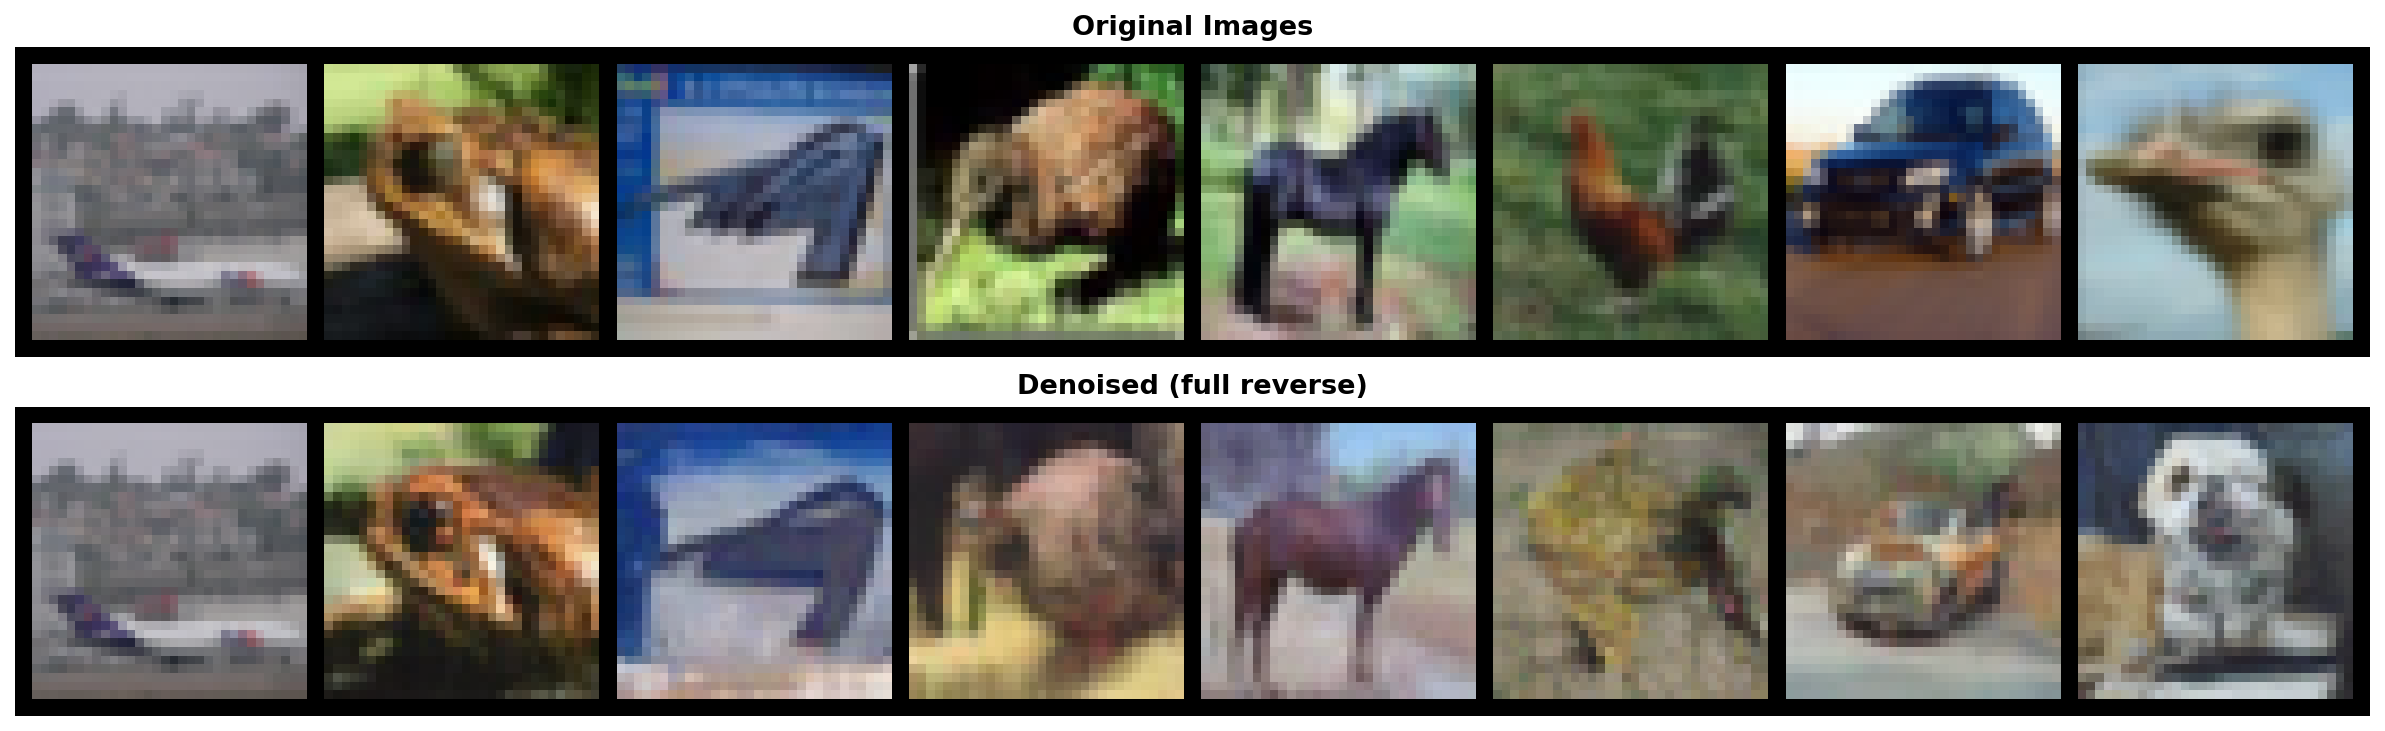
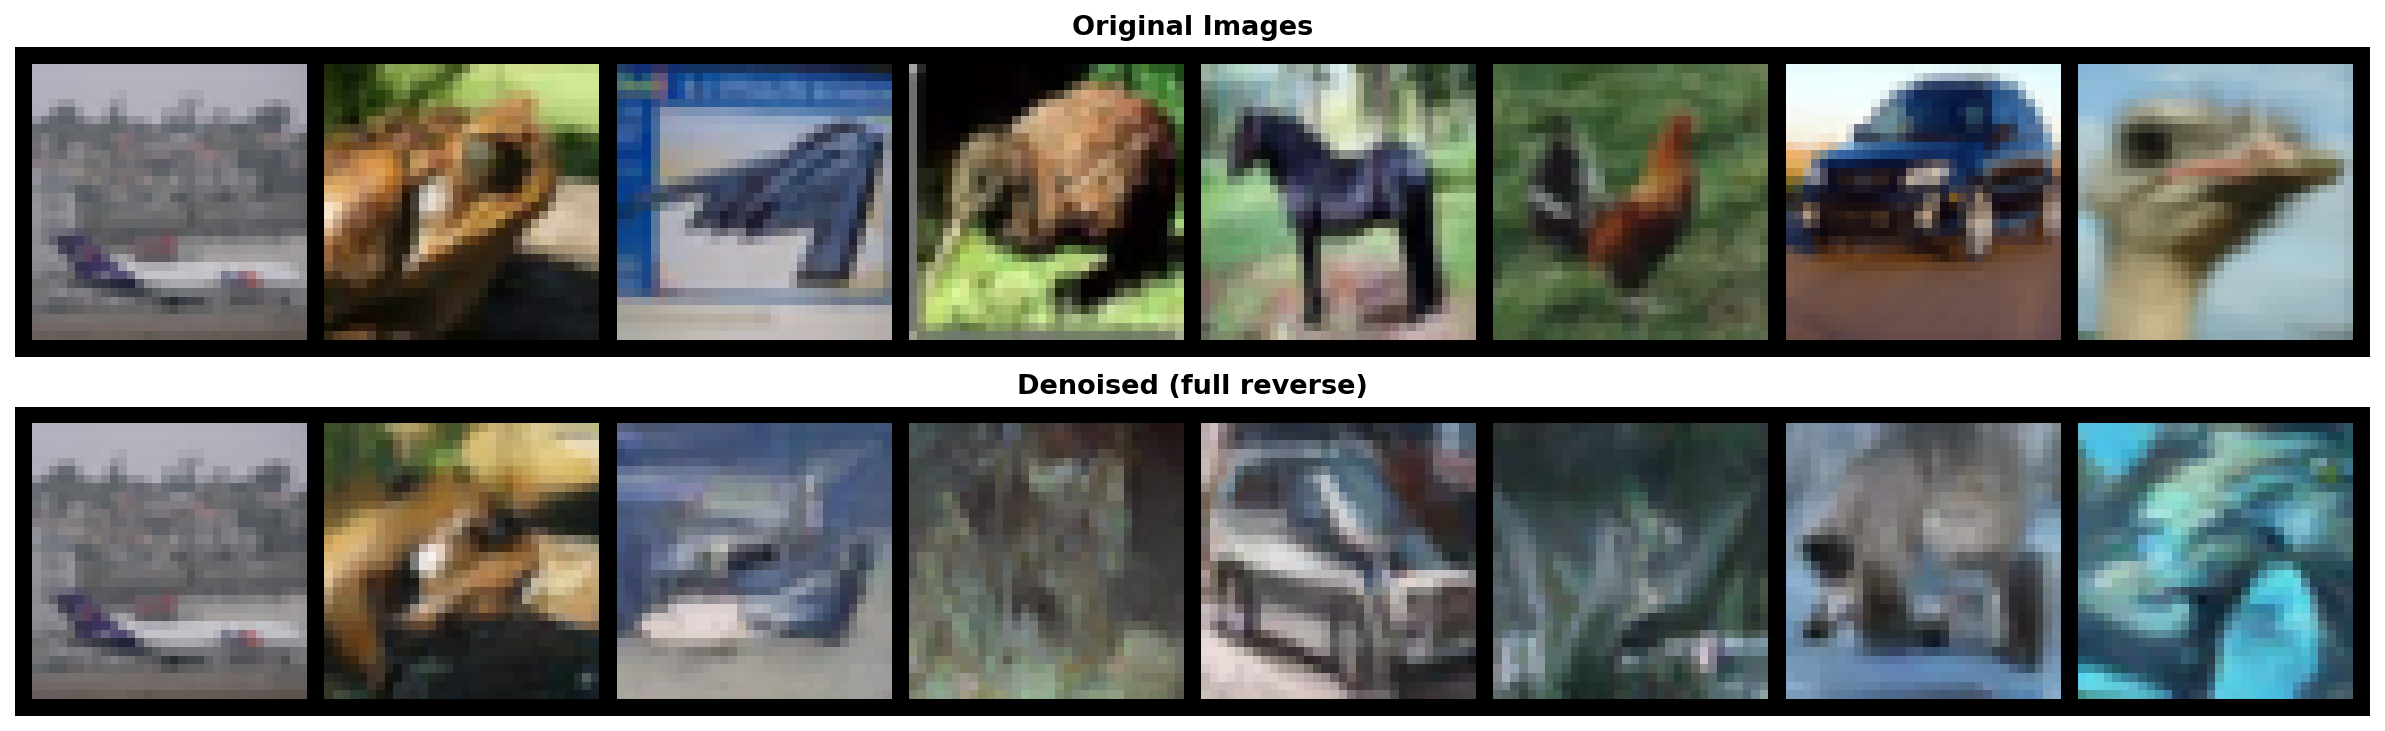
optimized model training parameter

diff --git a/unconditional.py b/unconditional.py
@@ -220,10 +220,10 @@ def generate_images(model: DiffusionModel, save_dir: str, epoch: int, num_sample
 
 @dataclass
 class TrainConfigs:
-    max_epoch:int = 80
-    lr: float = 2e-5
+    max_epoch:int = 2   # 300 - 400  for real training
+    lr: float = 3e-4
     weight_decay: float = 1e-5
-    batch_size: int = 96
+    batch_size: int = 128
     repo_id: str = "FriedParrot/ddpm-cifar10-diffusion"
     local_save_dir: str = "./checkpoints"
 
@@ -253,7 +253,7 @@ def main():
         )
         wandb.init(
             project="diffusion-cifar10",
-            name="diffusion-cifar10-train",
+            name="diffusion-cifar10-train-optimized-test",
             config=configs.__dict__,
         )
 
@@ -267,7 +267,7 @@ def main():
     unet = UNet2DModel.from_pretrained(model_repo).to("cuda")
     # read from json file
     scheduler_config = json.load(open("ddpm_scheduler_cfg.json"))
-    scheduler:DDPMScheduler = DDPMScheduler.from_config(scheduler_config)
+    scheduler:DDPMScheduler = DDPMScheduler.from_pretrained(model_repo)
 
     optimizer = torch.optim.Adam(
         unet.parameters(),
@@ -286,8 +286,8 @@ def main():
     test_loader = DataLoader(train_set, batch_size=8)
 
     model = DiffusionModel(unet, scheduler)
-    model, optimizer, dataloader, scheduler, val_loader, test_loader = accelerator.prepare(
-        model, optimizer, dataloader, scheduler, val_loader, test_loader
+    model, optimizer, dataloader, val_loader, test_loader, lr_scheduler = accelerator.prepare(
+        model, optimizer, dataloader, val_loader, test_loader, lr_scheduler
     )
     global_step = 0
     max_epoch = configs.max_epoch
@@ -320,37 +320,39 @@ def main():
 
         val_loss = validate(model, val_loader, accelerator)
         # Also test the denoising results on a few test images
+
         if accelerator.is_main_process:
             wandb.log({
                 "train/loss_epoch": avg_loss,
                 "val/loss": val_loss,
                 "epoch": epoch
             })
-            # Validation: generate and save images
-            save_path, generated = generate_images(
-                model, save_dir=save_dir, epoch=epoch, device=accelerator.device
-            )
-            test_batch = next(iter(test_loader))
-            test_image_path = "test_denoising.png"
-            test_denoising_results(
-                model=model,
-                scheduler=scheduler,
-                accelerator=accelerator,
-                batch=test_batch,
-                test_num=8,
-                save_path=test_image_path
-            )
-            wandb.log({
-                "train/test_image": wandb.Image(test_image_path, caption=f"Epoch {epoch} - Denoising Test"),
-                "val/generated_samples": wandb.Image(save_path, caption=f"Epoch {epoch} - Generated Samples"),
-                "epoch": epoch,
-            })
 
         if epoch % 10 == 0 :
+            # save checkpoints
             accelerator.wait_for_everyone()
             if accelerator.is_main_process:
                 os.makedirs("./checkpoints", exist_ok=True)
-                accelerator.save_model(model, "./checkpoints/checkpoint_epoch_{epoch:03d}.pt")
+                # Validation: generate and save images
+                save_path, generated = generate_images(
+                    model, save_dir=save_dir, epoch=epoch, device=accelerator.device
+                )
+                test_batch = next(iter(test_loader))
+                test_image_path = "test_denoising.png"
+                test_denoising_results(
+                    model=model,
+                    scheduler=scheduler,
+                    accelerator=accelerator,
+                    batch=test_batch,
+                    test_num=8,
+                    save_path=test_image_path
+                )
+                wandb.log({
+                    "train/test_image": wandb.Image(test_image_path, caption=f"Epoch {epoch} - Denoising Test"),
+                    "val/generated_samples": wandb.Image(save_path, caption=f"Epoch {epoch} - Generated Samples"),
+                    "epoch": epoch,
+                })
+                accelerator.save_model(model, f"./checkpoints/checkpoint_epoch_{epoch:03d}.pt")
 
     accelerator.end_training()  # ensures all processes synchronize before the main process handles
 
@@ -358,11 +360,7 @@ def main():
         wandb.finish()
         model_save_path = "./checkpoints/cifar_diffusion_model.pt"
         accelerator.save_model(model, model_save_path)
-        api.upload_file(
-            path_or_fileobj=model_save_path,
-            path_in_repo=model_save_path,
-            repo_id=configs.repo_id,
-        )
+
 
 if __name__ == "__main__":
     main()

diff --git a/load_model.py b/load_model.py
@@ -1,0 +1,1 @@
+from unconditional import
